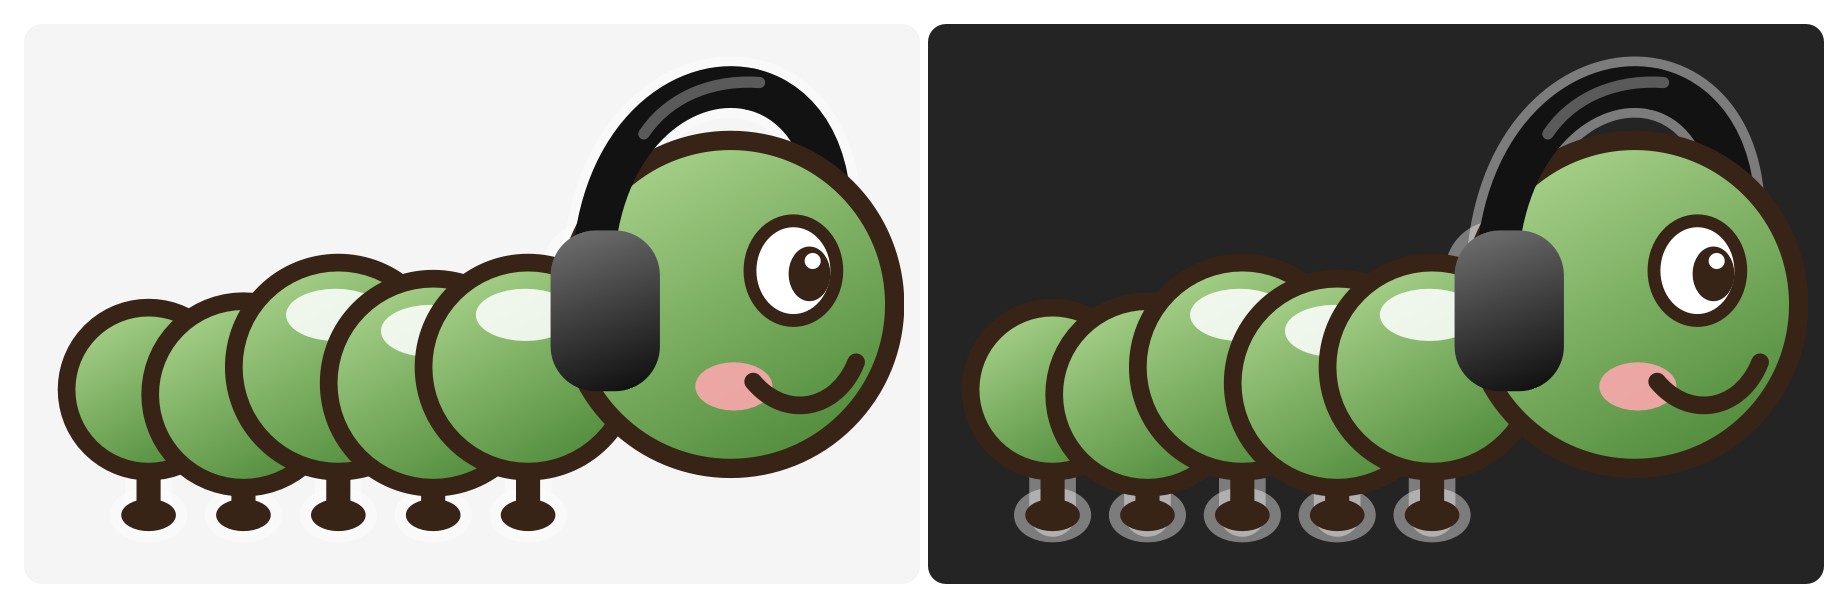
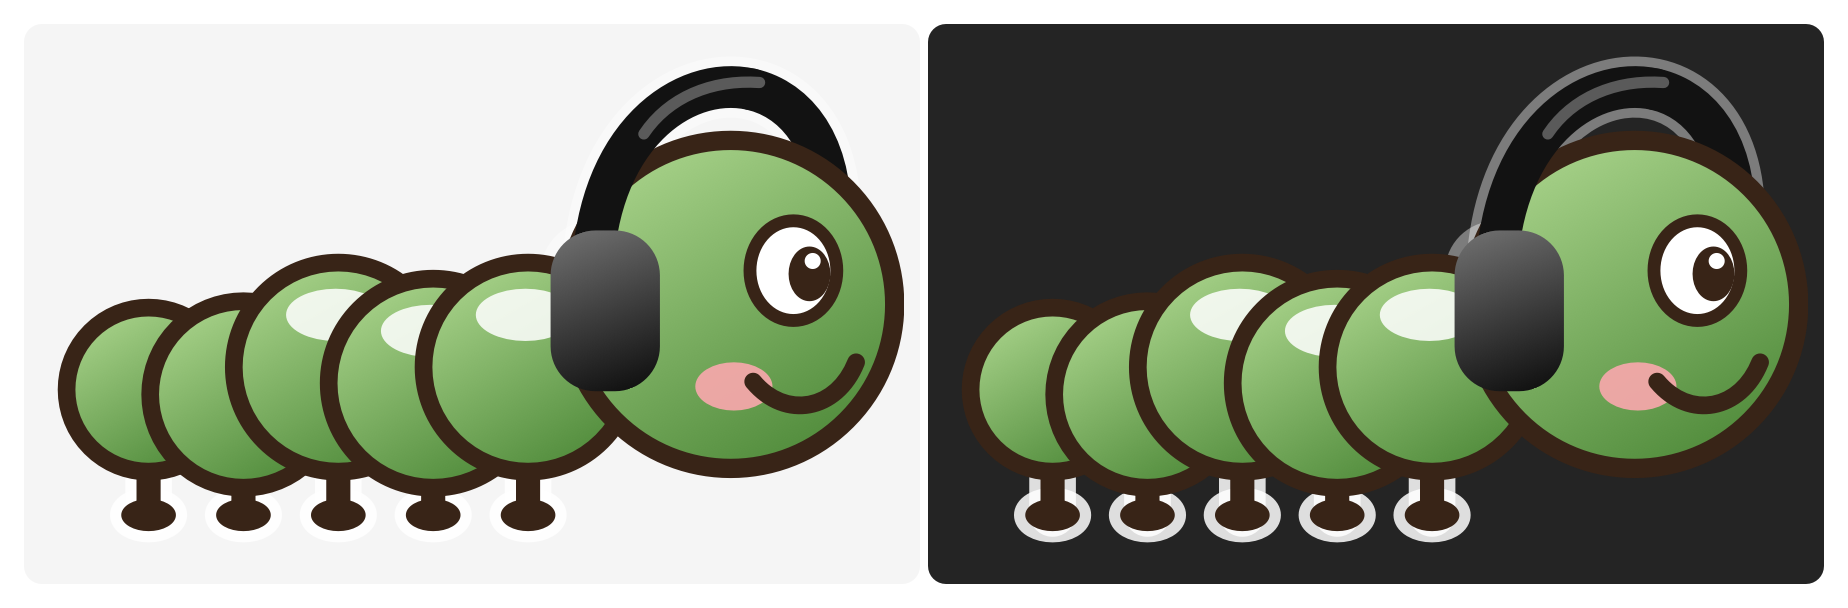
Make the caterpillar's leg rims nearly opaque

Changed region(s): [[0.5244, 0.7812, 0.8019, 0.9062]]

diff --git a/Sources/SoundChain/CaterpillarIcon.swift b/Sources/SoundChain/CaterpillarIcon.swift
@@ -52,6 +52,8 @@ enum CaterpillarIcon {
         static let phonesSheen = NSColor(white: 0.42, alpha: 1)
         /// A faint light edge that keeps dark parts visible on a dark menu bar.
         static let rim = NSColor(white: 1, alpha: 0.4)
+        /// The legs are thin, so their rim is nearly opaque.
+        static let legRim = NSColor(white: 1, alpha: 0.85)
 
         init(_ state: State) {
             let base: NSColor
@@ -164,7 +166,7 @@ enum CaterpillarIcon {
             leg.line(to: NSPoint(x: cx, y: groundY - 0.2))
             leg.lineCapStyle = .round
             let foot = NSBezierPath(ovalIn: NSRect(x: cx - 0.85, y: groundY - 0.75, width: 1.7, height: 1.0))
-            Palette.rim.set()
+            Palette.legRim.set()
             leg.lineWidth = 1.45; leg.stroke()
             foot.lineWidth = 0.7; foot.stroke()
             Palette.ink.set()
